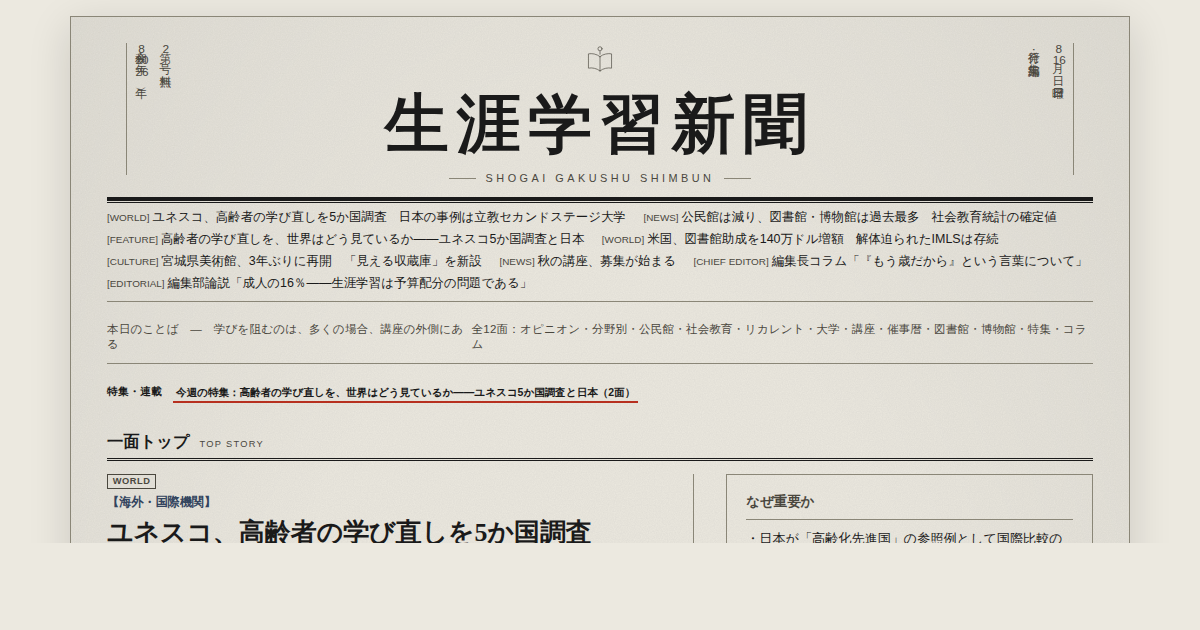
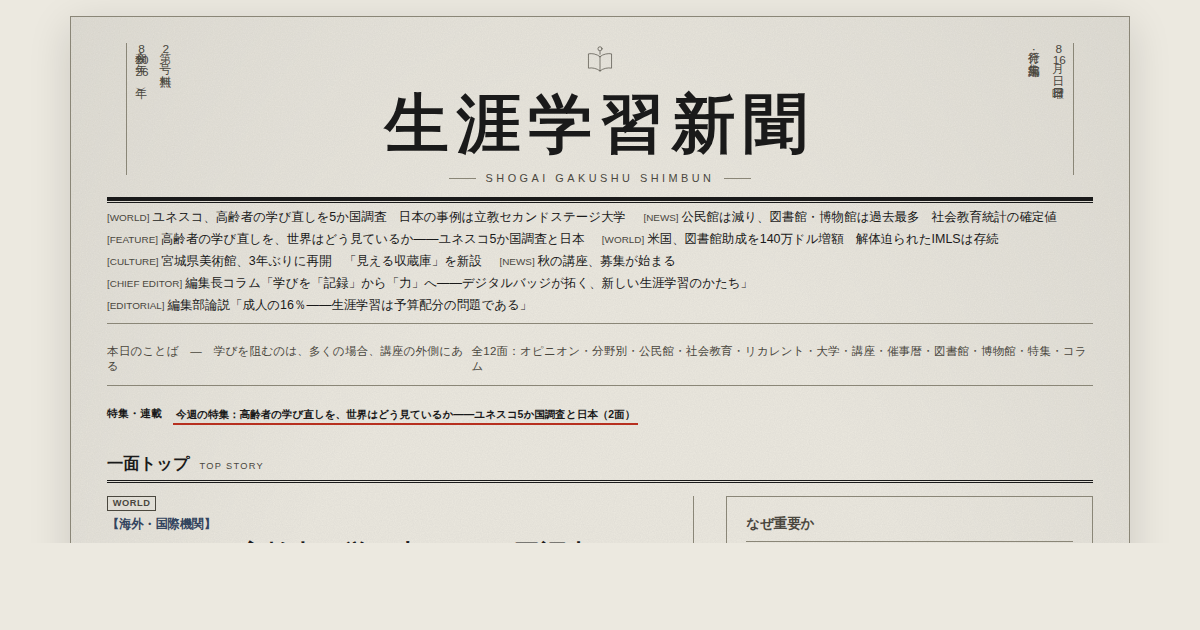
2面の編集長コラムを本人の寄稿に差し替え
AIが下書きしていた「『もう歳だから』という言葉について」を、編集長本人
による書き下ろし「学びを『記録』から『力』へ――デジタルバッジが拓く、
新しい生涯学習のかたち」に差し替えた。

紙面:
- 2面 編集長コラムを全面差し替え。長文の署名原稿のため全幅・本文2段組みに
  し、■の節見出しに罫を入れた（.op-box.full を新設）
- 署名は「編集長　山仲　元」。囲み冒頭に、筆者が日本生涯学習協議会の
  理事長であること、本稿は協議会の公式見解ではないことを明記
- 編集部論説も全幅・2段組みに揃え、節見出しを分離

追随した箇所:
- articles配列の col-chief-editor-002（本文・要点・タグ・出典・編集部注）
  ※HTML側と本文が完全一致することを検証スクリプトで確認済み
- 1面見出し帯／3面 分野別カード・新着記事一覧／11面 索引
- 10面 編集後記と12面 奥付から「AIが下書き」の記載を削除し、本人執筆と
  協議会見解ではない旨に改めた
- 3面 シニアの学び欄はコラムの代わりに立教セカンドステージ大学を配置し、
  コラムは論説・コラム欄へ移した
- index.html / feed.xml / archive.html / og:image・twitter:image の説明文
- og/2026-08-16.png を再生成

記事ダイアログの改良:
- 本文に「■」で始まる段落があれば、それを目次と節見出しとして描画する
  ようにした（該当しない記事は従来どおり段落番号の目次）

コラムのマイクロクレデンシャル論と5面のOECD「スキル・ファースト」は
論点が重なるため、関連記事として相互リンクした。

Claude-Session: https://claude.ai/code/session_017xpqQvDthEy25gPc7RGweo

Changed region(s): [[0.0925, 0.3921, 0.8942, 0.8746]]

diff --git a/issues/2026-08-16.html b/issues/2026-08-16.html
@@ -5,7 +5,7 @@
 <meta property="og:site_name" content="生涯学習新聞">
 <meta property="og:locale" content="ja_JP">
 <meta property="og:title" content="生涯学習新聞 — 2026年8月16日号（第2号）">
-<meta property="og:description" content="ユネスコ、高齢者の学び直しを5か国調査／公民館は減り、図書館・博物館は過去最多／編集長コラム「『もう歳だから』という言葉について」">
+<meta property="og:description" content="ユネスコ、高齢者の学び直しを5か国調査／公民館は減り、図書館・博物館は過去最多／編集長コラム「学びを「記録」から「力」へ——デジタルバッジが拓く、新しい生涯学習のかたち」">
 <link rel="icon" href="../icons/favicon.ico">
 <link rel="apple-touch-icon" href="../icons/apple-touch-icon.png">
 <link rel="manifest" href="../manifest.json">
@@ -18,7 +18,7 @@
 <meta property="og:image:height" content="630">
 <meta name="twitter:card" content="summary_large_image">
 <meta name="twitter:title" content="生涯学習新聞 — 2026年8月16日号（第2号）">
-<meta name="twitter:description" content="ユネスコ、高齢者の学び直しを5か国調査／公民館は減り、図書館・博物館は過去最多／編集長コラム「『もう歳だから』という言葉について」">
+<meta name="twitter:description" content="ユネスコ、高齢者の学び直しを5か国調査／公民館は減り、図書館・博物館は過去最多／編集長コラム「学びを「記録」から「力」へ——デジタルバッジが拓く、新しい生涯学習のかたち」">
 <meta name="twitter:image" content="https://djtobby.github.io/shogai-gakushu-shimbun/og/2026-08-16.png">
 <style>
   :root {
@@ -640,6 +640,24 @@
     padding: 1.2rem 1.4rem;
   }
   .op-box.feature-box { grid-column: 1 / -1; border-color: var(--ink); }
+  /* 編集長の署名原稿など、長文を全幅・段組で組むための指定 */
+  .op-box.full { grid-column: 1 / -1; }
+  .op-box.full .col-excerpt { column-count: 2; column-gap: 2.2rem; }
+  .op-box.full .col-excerpt p { orphans: 2; widows: 2; }
+  .op-box .col-note {
+    font-size: 0.72rem; line-height: 1.7; color: var(--ink-soft);
+    border-left: 2px solid var(--rule-soft); padding: 0.4em 0 0.4em 0.7em; margin: 0.9em 0 0;
+  }
+  .op-box .col-excerpt p.col-sec {
+    font-family: var(--font-mincho); font-weight: 700; font-size: 1.04rem;
+    margin: 1.5em 0 0.7em; padding-bottom: 0.25em;
+    border-bottom: 1px solid var(--rule-soft);
+    break-inside: avoid; break-after: avoid;
+  }
+  .op-box .col-excerpt p.col-sec:first-child { margin-top: 0; }
+  .op-box .col-excerpt p.col-close {
+    font-family: var(--font-mincho); font-weight: 700; font-size: 1.02rem; line-height: 1.7;
+  }
   .op-box .col-title-row { display: flex; align-items: center; margin-bottom: 0.6em; }
   .op-box .col-title { font-family: var(--font-mincho); font-weight: 700; font-size: 1.22rem; line-height: 1.5; }
   .op-box .col-subtitle { font-size: 0.85em; color: var(--ink-soft); margin-top: 0.4em; }
@@ -726,6 +744,10 @@
   .ad-inner .ad-keypoints h3, .ad-inner .ad-body h3, .ad-inner .ad-editor-note h3, .ad-inner .ad-related h3 { font-family: var(--font-mincho); font-size: 0.8rem; margin: 0 0 0.4em; }
   .ad-inner .ad-keypoints ul { margin: 0; padding-left: 1.2em; }
   .ad-inner .ad-body p { font-size: 0.9rem; line-height: 1.95; margin: 0 0 1em; }
+  .ad-inner .ad-body p.ad-sec {
+    font-family: var(--font-mincho); font-weight: 700; font-size: 0.98rem;
+    margin: 1.6em 0 0.7em; padding-bottom: 0.25em; border-bottom: 1px solid var(--rule-soft);
+  }
   .ad-inner .ad-editor-note { font-size: 0.78rem; color: var(--ink-soft); border: 1px dashed var(--rule-soft); padding: 0.7em 1em; margin: 0.8em 0; }
   .ad-inner .ad-source { font-size: 0.7rem; color: var(--ink-soft); margin: 0.8em 0; }
   .ad-inner .ad-tags { display: flex; flex-wrap: wrap; gap: 0.4em; margin: 0.8em 0; }
@@ -905,24 +927,93 @@
 
     <p class="section-heading">編集長コラム <span class="en">CHIEF EDITOR'S COLUMN</span></p>
     <div class="page-body op-row">
-      <div class="op-box">
+      <div class="op-box full">
         <div class="col-title-row">
           <span class="type-badge" data-type="CHIEF_EDITOR">CHIEF EDITOR</span>
         </div>
-        <div class="col-title">学びの周辺　第<span class="tcy">2</span>回<br>「『もう歳だから』という言葉について」</div>
-        <div class="col-byline">編集長</div>
+        <div class="col-title">学びを「記録」から「力」へ<br><span class="col-subtitle">――デジタルバッジが拓く、新しい生涯学習のかたち／編集長コラム「学びの周辺」第<span class="tcy">2</span>回</span></div>
+        <div class="col-byline">編集長　山仲　元</div>
+        <p class="col-note">本欄は編集長個人の見解であり、事実報道ではありません。筆者は一般財団法人日本生涯学習協議会の理事長を務めていますが、本稿は同協議会の公式見解を示すものではありません。</p>
         <div class="col-excerpt">
-          <p>ユネスコの報告書に、意外な障壁が並んでいました。資金が足りない、デジタルについていけない——ここまでは予想がつきます。その次に書かれていたのが、高齢者自身が「自分はもう歳をとりすぎている」と考えてしまうことでした。</p>
-          <p>この言葉は、公民館でも大学の公開講座でも、何度も聞いてきました。申込書を前にして手が止まる。誘われても、笑って辞退する。もう歳だから、と。制度の側から見れば、これは統計に現れない離脱です。定員が埋まらなかった理由としては記録されますが、なぜ埋まらなかったかは残りません。</p>
-          <p>厄介なのは、この自己認識が本人だけのものではないことです。周囲が「無理をなさらないで」と言い、募集要項が暗黙のうちに若い受講者を想定し、講師が説明の速度を変えない。そうした小さな積み重ねが、本人の中に「自分の場所ではない」という感覚を育てていきます。年齢差別という言葉は強すぎるように聞こえるかもしれませんが、報告書が応募段階での差別を並べて書いているのは、この連続性を見ているからでしょう。</p>
-          <p>では、どうすればよいのか。報告書は、高齢者自身を提供内容の設計に加えることを挙げていました。受け手として想定するのではなく、作り手として迎える。この一手が効くのは、参加のハードルが下がるからだけではありません。「自分たちのために誰かが作ったもの」ではなく「自分たちが作ったもの」になった瞬間に、もう歳だからという言葉の出番がなくなるからだと思います。</p>
-          <p>私自身、この言葉を口にしそうになることがあります。そのたびに、公民館で初めて講師役に回った方の顔を思い出すようにしています。あのとき変わったのは、その人の能力ではなく、その人の立ち位置でした。</p>
-          <p><strong>編集長より</strong>　学びをためらわせるものは、たいてい講座の外側にあります。募集の言葉づかい、会場の空気、隣に座る人の年齢。紙面でも、そこを見ていきたいと思います。</p>
-        </div>
-        <button type="button" class="read-more" data-article-id="col-chief-editor-002">続きを読む（関連記事・タグなど）</button>
-      </div>
+          <p>社会の変化が、これまでにない速さで進んでいます。</p>
+          <p>生成AIをはじめとするデジタル技術の進化、少子高齢化、働き方の多様化、雇用の流動化、地域コミュニティの変化。私たちは今、「学校を卒業した時点で学びを終える」という考え方では対応できない時代を迎えています。</p>
+          <p>一度身につけた知識や技術だけで、その後の人生を歩み続けることは難しくなりました。仕事のために新しい知識を身につけることもあれば、定年後に新しい活動を始めるために学ぶこともあります。地域で人の役に立ちたい、趣味を深めたい、誰かに教えたい、仲間とつながりたいという思いから始まる学びもあります。</p>
+          <p>生涯学習は、もはや一部の意欲的な人だけのものではありません。年齢や職業にかかわらず、誰もが変化の中で自分らしく生きるための「社会の基盤」になりつつあります。</p>
 
-      <div class="op-box">
+          <p class="col-sec">■「何を学んだか」が問われる時代</p>
+          <p>これまで、学びの成果を証明する代表的なものは、学校の卒業証書や国家資格、民間資格などでした。</p>
+          <p>もちろん、これらの価値がなくなるわけではありません。しかし、社会で必要とされる知識や技能が細分化し、変化する速度も速くなる中で、数年単位の教育課程や大きな資格だけでは、個人の学びのすべてを表しきれなくなっています。</p>
+          <p>例えば、ある人が数カ月間の講座で新しい技法を習得したとします。その人は、作品を制作できるようになっただけでなく、人に教える力や、教室を運営する力、仲間をまとめる力、オンラインで情報を発信する力を身につけているかもしれません。</p>
+          <p>ところが、従来の認定証には「○○講座修了」としか書かれていないことが少なくありません。これでは、その人が何を学び、何ができるようになったのかまでは十分に伝わりません。</p>
+          <p>今後の生涯学習に必要なのは、「受講した事実」だけではなく、「何を学び、どのような能力を身につけたのか」を社会に分かりやすく示す仕組みです。</p>
+
+          <p class="col-sec">■マイクロクレデンシャルという新しい考え方</p>
+          <p>現在、世界的に注目されているのが「マイクロクレデンシャル」です。</p>
+          <p>簡単に言えば、比較的小さな単位の学びや、その学びによって身につけた能力を正式に証明する考え方です。長期間の教育課程を一つ修了するだけでなく、必要な学びを小さな単位で積み重ね、それぞれの成果を証明していきます。</p>
+          <p>例えば、「基礎技法を習得した」「作品制作の実践力を身につけた」「指導者として必要な知識を学んだ」「教室運営について学んだ」といった成果を、それぞれ証明することができます。</p>
+          <p>小さな学びの証明を積み重ねることで、一人ひとりの学びの履歴が、その人独自のキャリアや活動の記録になっていきます。</p>
+          <p>これは、従来の大きな資格を否定するものではありません。大きな資格を支える学びを、より細かく、分かりやすく、社会に見えるようにするものです。</p>
+          <p>忙しい社会人にとっても、短期間の学びを積み重ねられる仕組みは重要です。仕事、子育て、介護などと両立しながら、自分のペースで学び続けることができるからです。</p>
+          <p>ただし、学びを細かくすれば、それだけで価値が生まれるわけではありません。何を学ぶのか、どのような基準で評価するのか、誰が証明するのか。その質と信頼性が、これまで以上に重要になります。</p>
+
+          <p class="col-sec">■紙の認定証からデジタルバッジへ</p>
+          <p>こうした学びの成果をデジタル上で証明する仕組みの一つが「デジタルバッジ」です。</p>
+          <p>デジタルバッジは、単なる記念画像ではありません。本来のデジタルバッジには、発行した団体、取得者、取得年月日、学んだ内容、取得のための条件、評価基準などの情報が記録されます。</p>
+          <p>取得者は、デジタルバッジをスマートフォンやパソコンで管理し、自分のホームページやSNS、プロフィール、電子履歴書などで提示することができます。受け取った側も、そのバッジを誰が発行し、どのような学びを証明しているのかを確認できます。</p>
+          <p>紙の認定証には、手にしたときの喜びや、額に入れて飾る価値があります。それはこれからも大切にすべき文化です。</p>
+          <p>一方で、紙の認定証は、保管場所に置かれたままになりやすく、第三者が真正性を確認することも簡単ではありません。紛失や劣化の問題もあります。</p>
+          <p>デジタルバッジであれば、学びの成果を必要なときに提示でき、遠く離れた相手とも共有できます。資格や認定が、その人の手元にある「証書」から、社会とつながるための「情報」へと変わるのです。</p>
+          <p>国際的な技術標準であるOpen Badges 3.0では、発行者や取得内容などの情報に加え、デジタル署名などを用いて、その証明が正当なものかを検証できる仕組みが整えられています。</p>
+          <p>重要なのは、認定証を紙からデジタルに置き換えることだけではありません。</p>
+          <p>本当の意味でのデジタル化とは、これまで見えにくかった学びの内容と成果を明らかにし、個人が自分の学びを持ち運び、社会の中で生かせるようにすることです。</p>
+
+          <p class="col-sec">■資格は「取得して終わり」ではない</p>
+          <p>私たちが、もう一つ見直さなければならないのは、資格や認定に対する考え方です。</p>
+          <p>資格を取得することは、学びの大切な節目です。しかし、資格を取得しただけで、自動的に優れた講師になれるわけではありません。</p>
+          <p>学んだ技術をどのように伝えるのか。受講者の気持ちにどう寄り添うのか。どのような教室やコミュニティをつくるのか。自分らしい講師像をどう築くのか。認定カリキュラムを超えて、どのような価値を生み出していくのか。</p>
+          <p>こうした実践の積み重ねによって、資格は初めて生きた力になります。</p>
+          <p>これからの認定制度には、「講座を受けたから認定する」という発想だけでなく、取得後の活動、継続学習、指導実績、作品発表、地域貢献なども含めて、学び続けていることを評価する視点が必要です。</p>
+          <p>デジタルバッジを活用すれば、最初の資格取得だけでなく、その後の研修、実践、活動実績などを段階的に記録することができます。</p>
+          <p>一つの大きな認定証だけで人を判断するのではなく、その人が歩んできた学びの道のり全体を見えるようにする。そこに、デジタルバッジの大きな可能性があります。</p>
+
+          <p class="col-sec">■AI時代だからこそ、人が教える価値が高まる</p>
+          <p>生成AIの急速な普及によって、「知識を得る」という行為そのものは、大きく変わりました。</p>
+          <p>分からないことがあれば、AIに質問することができます。文章を要約し、学習計画を作り、練習問題を作成してもらうこともできます。オンライン動画や配信講座を活用すれば、場所や時間に縛られずに学ぶこともできます。</p>
+          <p>だからといって、人が人に教える役割がなくなるわけではありません。むしろ、AIによって情報があふれる時代だからこそ、学ぶ人に寄り添い、適切な情報を選び、励まし、成長を認める人の存在が重要になります。</p>
+          <p>生涯学習の場では、知識や技術だけが受け渡されているのではありません。</p>
+          <p>先生と受講者との信頼関係、仲間との出会い、互いの作品を認め合う喜び、目標に向かって続ける力、自分にもできたという実感。こうした人間的な経験こそが、生涯学習の大きな価値です。</p>
+          <p>デジタル技術は、人間関係に代わるものではありません。人と人とのつながりを広げ、学びを続けやすくし、その成果をより多くの人に伝えるために使うものです。</p>
+
+          <p class="col-sec">■デジタル化から誰も取り残さない</p>
+          <p>生涯学習のデジタル化を進めるうえで、忘れてはならないことがあります。それは、デジタルに慣れていない人を取り残さないということです。</p>
+          <p>スマートフォンの操作に不安がある人もいます。SNSを利用していない人もいます。紙の認定証を大切に感じる人もいます。</p>
+          <p>すべてを一度にデジタルへ移行し、使えない人は仕方がないと考えるのは、生涯学習の理念に反します。</p>
+          <p>必要なのは、紙とデジタルを適切に併用すること、使い方を丁寧に説明すること、身近な場所で支援することです。デジタル化は、運営側の効率化だけを目的にするのではなく、学ぶ人の選択肢を増やすために進めなければなりません。</p>
+          <p>年齢、居住地域、身体的な条件、経済状況、デジタル機器への習熟度にかかわらず、誰もが学びに参加できる環境をつくる。それが生涯学習に関わる団体の責任です。</p>
+
+          <p class="col-sec">■学びを、社会の共通言語にする</p>
+          <p>これからの生涯学習に求められるのは、講座を提供して終わることではありません。</p>
+          <p>学びの内容を明確にすること。成果を適切に評価すること。取得した資格や能力を社会に分かりやすく伝えること。取得後も学び続け、活動できる環境をつくること。そして、学んだ人と、その力を必要とする社会をつなぐことです。</p>
+          <p>デジタルバッジは、そのための有力な手段です。しかし、バッジを発行すること自体が目的になってはいけません。</p>
+          <p>中身の伴わないバッジを大量に発行すれば、かえって認定の価値を低下させます。発行団体には、教育内容、審査基準、講師の質、取得後の支援について、これまで以上に説明責任が求められます。</p>
+          <p>誰が発行したのか。何を学んだのか。何ができるのか。どのような基準で認められたのか。</p>
+          <p>それらが明確であってこそ、デジタルバッジは信頼される「学びの証明」になります。</p>
+          <p>日本生涯学習協議会としても、認定制度のデジタル化を単なる事務手続きの変更として捉えるのではなく、学ぶ人の可能性を社会につなげるための改革として進めていかなければなりません。</p>
+          <p>認定を取得した方が、自らの学びに誇りを持てること。身につけた力を社会に示せること。講師、作家、地域の担い手として活躍できること。そして、その姿を見た次の人が「自分も学んでみたい」と思えること。</p>
+          <p>学びが次の学びを生み、人と人をつなぎ、地域や社会を豊かにしていく。その循環をつくることが、私たちの使命です。</p>
+          <p>技術は変わります。学び方も、認定の形も変わっていきます。しかし、人が成長したいと願う気持ちと、その成長を誰かが認めることの価値は変わりません。</p>
+          <p>デジタルの力を正しく活用しながら、人の温かさを失わない。</p>
+          <p>その両方を大切にすることが、これからの生涯学習に求められているのではないでしょうか。</p>
+          <p class="col-close">学びを、しまっておく証書から、人生と社会を動かす力へ。</p>
+          <p class="col-close">私たちは今、生涯学習の新しい時代の入り口に立っています。</p>
+        </div>
+        <button type="button" class="read-more" data-article-id="col-chief-editor-002">続きを読む（要点・関連記事・タグなど）</button>
+      </div>
+    </div>
+
+    <p class="section-heading">編集部論説 <span class="en">EDITORIAL</span></p>
+    <div class="page-body op-row">
+      <div class="op-box full">
         <div class="col-title-row">
           <span class="type-badge" data-type="EDITORIAL">EDITORIAL</span>
         </div>
@@ -999,7 +1090,7 @@
         <h4>シニアの学び</h4>
         <ul>
           <li><a href="#p1" onclick="jumpToArticle(event,'p1')"><span class="cc-badge">[WORLD]</span>ユネスコ、高齢者の学び直しを5か国調査</a><span class="cc-desc">障壁に資金・デジタル・年齢差別・自己認識。</span></li>
-          <li><a href="#" onclick="event.preventDefault();openArticleDialog('col-chief-editor-002')"><span class="cc-badge">[CHIEF_EDITOR]</span>「もう歳だから」という言葉について</a><span class="cc-desc">統計に現れない離脱を、編集長が考える。</span></li>
+          <li><a href="#" onclick="event.preventDefault();openArticleDialog('recurrent-003')"><span class="cc-badge">[NEWS]</span>立教セカンドステージ大学、ユネスコ報告書の事例に</a><span class="cc-desc">50歳以上を対象に「異世代共学」を掲げる課程。</span></li>
         </ul>
       </div>
       <div class="category-card">
@@ -1023,6 +1114,7 @@
       <div class="category-card">
         <h4>論説・コラム</h4>
         <ul>
+          <li><a href="#" onclick="event.preventDefault();openArticleDialog('col-chief-editor-002')"><span class="cc-badge">[CHIEF_EDITOR]</span>学びを「記録」から「力」へ</a><span class="cc-desc">デジタルバッジとマイクロクレデンシャルを編集長が論じる。</span></li>
           <li><a href="#" onclick="event.preventDefault();openArticleDialog('editorial-002')"><span class="cc-badge">[EDITORIAL]</span>成人の16％——生涯学習は予算配分の問題である</a><span class="cc-desc">ILO報告書を手がかりに編集部が分析。</span></li>
           <li><a href="#" onclick="jumpToArticle(event,'p10')"><span class="cc-badge">[OPINION]</span>コラム「学びの現在地」</a><span class="cc-desc">生成AIが独自の視点で綴る所感欄。</span></li>
         </ul>
@@ -1056,7 +1148,7 @@
       <li><time>09:15</time><span class="arr-cat">[NEWS] 講座・教室</span><a href="#" onclick="jumpToArticle(event,'p6')">大学の公開講座、後期の受付が続く</a></li>
       <li><time>09:45</time><span class="arr-cat">[WORLD] 図書館</span><a href="#" onclick="event.preventDefault();openArticleDialog('library-002')">米国、図書館助成を140万ドル増額</a></li>
       <li><time>10:00</time><span class="arr-cat">[CULTURE] 博物館</span><a href="#" onclick="event.preventDefault();openArticleDialog('culture-002')">宮城県美術館、3年ぶりに再開</a></li>
-      <li><time>10:15</time><span class="arr-cat">[CHIEF_EDITOR] コラム</span><a href="#" onclick="event.preventDefault();openArticleDialog('col-chief-editor-002')">「もう歳だから」という言葉について</a></li>
+      <li><time>10:15</time><span class="arr-cat">[CHIEF_EDITOR] コラム</span><a href="#" onclick="event.preventDefault();openArticleDialog('col-chief-editor-002')">学びを「記録」から「力」へ——デジタルバッジが拓く、新しい生涯学習のかたち</a></li>
       <li><time>10:30</time><span class="arr-cat">[EDITORIAL] 論説</span><a href="#" onclick="event.preventDefault();openArticleDialog('editorial-002')">成人の16％——生涯学習は予算配分の問題である</a></li>
       <li><time>10:45</time><span class="arr-cat">[FEATURE] 特集</span><a href="#" onclick="event.preventDefault();openArticleDialog('feature-002')">高齢者の学び直しを、世界はどう見ているか</a></li>
       <li><time>11:00</time><span class="arr-cat">[WORLD] 国際機関</span><a href="#" onclick="event.preventDefault();openArticleDialog('world-002')">ILO、体系的な訓練を受けた成人は世界で16％</a></li>
@@ -1441,7 +1533,7 @@
       <div class="editors-note">
         <div class="et-title">編集後記</div>
         <p>本号は、編集部の作業環境から府省庁・自治体・国際機関の公式サイトへ直接アクセスできない状態で制作しました。記事は、前号までに確認済みの取材メモと、検索結果に表示された各公式ページの記載に基づいています。数値の一部を「未確認」と明記したのはこのためです（5面など）。</p>
-        <p>2面の編集長コラム「『もう歳だから』という言葉について」は、生成AIが下書きしたものです。本紙は実名で発行しており、編集長コラムの文責は編集長本人にあります。掲載にあたっては、編集長ご本人の言葉への差し替えを強くおすすめします。</p>
+        <p>2面の編集長コラム「学びを『記録』から『力』へ——デジタルバッジが拓く、新しい生涯学習のかたち」は、編集長本人による書き下ろしです。筆者は一般財団法人日本生涯学習協議会の理事長を務めていますが、本稿は同協議会の公式見解ではなく、編集長個人の見解として掲載しています。</p>
         <p>数値・日付は各記事末尾の出典をご確認ください。特に講座の日程・定員・費用については、主催者の一次情報にあたっていただくようお願いします。誤りにお気づきの際は編集部までお寄せください。</p>
       </div>
     </div>
@@ -1459,7 +1551,7 @@
 
     <ul class="toc-list">
       <li><span class="toc-page">1面</span><span class="toc-title">総合</span><span class="toc-desc">見出し帯／特集・連載／一面トップ「ユネスコ、高齢者の学び直しを5か国調査」／一面サブニュース（社会教育統計、ILO報告書、米国IMLS、宮城県美術館）／秋の講座、募集が始まる</span></li>
-      <li><span class="toc-page">2面</span><span class="toc-title">オピニオン面</span><span class="toc-desc">編集長コラム「『もう歳だから』という言葉について」（全文）／編集部論説「成人の16％——生涯学習は予算配分の問題である」（全文）／今週の特集「高齢者の学び直しを、世界はどう見ているか」（全文）</span></li>
+      <li><span class="toc-page">2面</span><span class="toc-title">オピニオン面</span><span class="toc-desc">編集長コラム「学びを『記録』から『力』へ——デジタルバッジが拓く、新しい生涯学習のかたち」（全文）／編集部論説「成人の16％——生涯学習は予算配分の問題である」（全文）／今週の特集「高齢者の学び直しを、世界はどう見ているか」（全文）</span></li>
       <li><span class="toc-page">3面</span><span class="toc-title">分野別ニュース・小欄面</span><span class="toc-desc">8分野の見出し一覧／小欄・短信12欄／新着記事一覧14件</span></li>
       <li><span class="toc-page">4面</span><span class="toc-title">公民館・社会教育</span><span class="toc-desc">公民館は減り、図書館・博物館は過去最多／中教審特別部会、8月時点でも取りまとめ未公表</span></li>
       <li><span class="toc-page">5面</span><span class="toc-title">リカレント・大学</span><span class="toc-desc">立教セカンドステージ大学、ユネスコ報告書の事例に／OECD「スキル・ファースト労働市場」が問うもの</span></li>
@@ -1516,7 +1608,8 @@
         <p>本紙は、一般財団法人日本生涯学習協議会の理事長である山仲元が、個人として試作しているデジタル新聞です。実在の刊行物ではなく、また協議会の公式刊行物でもありません。本紙の内容は協議会の見解を代表するものではなく、記載された意見はすべて編集部・編集長個人のものです。</p>
         <p>各記事は公開されているプレスリリースや報道・調査資料をもとに編集部が要約・構成したもので、全文転載ではありません。詳細・一次情報は各記事末尾の出典よりご確認ください。</p>
         <p>本紙は記事を「NEWS・BREAKING・EDITORIAL・CHIEF_EDITOR・FEATURE・INTERVIEW・MARKET・MATERIAL・TECHNIQUE・CULTURE・BUSINESS・WORLD・OPINION・SHORTS」の種別に分類し、見出し脇のバッジで表示しています。事実報道と意見・分析記事は明確に区別しています。</p>
-        <p>コラム「学びの現在地」、編集長コラム、編集部論説はいずれも一次情報ではなく、編集部・編集長・生成AI（Claude）による見解です。</p>
+        <p>2面の編集長コラムは、編集長・山仲元本人による書き下ろしです。筆者は一般財団法人日本生涯学習協議会の理事長を務めていますが、同コラムは同協議会の公式見解ではなく、編集長個人の見解として掲載しています。</p>
+        <p>編集部論説と、10面のコラム「学びの現在地」は、いずれも一次情報ではなく、編集部および生成AI（Claude）による分析・所感です。</p>
       </div>
       <div class="back-box">
         <h3>本号の制作条件について</h3>
@@ -1638,30 +1731,92 @@
       image: null, imageCaption: null, featured: true, priority: 1, status: 'published',
     },
     {
-      id: 'col-chief-editor-002', slug: 'mou-toshi-dakara-toiu-kotoba-ni-tsuite', articleType: 'CHIEF_EDITOR',
-      title: '「もう歳だから」という言葉について',
-      subtitle: '編集長コラム「学びの周辺」第2回',
-      lead: 'ユネスコの報告書に、意外な障壁が並んでいました。資金でもデジタルでもなく、高齢者自身が「自分はもう歳をとりすぎている」と考えてしまうこと。統計に現れない離脱について考えます。',
-      category: 'コラム', tags: ['編集長コラム', 'シニアの学び', '年齢'],
-      author: '編集長', authorRole: '生涯学習新聞 編集長',
+      id: 'col-chief-editor-002', slug: 'manabi-wo-kiroku-kara-chikara-e-digital-badge', articleType: 'CHIEF_EDITOR',
+      title: '学びを「記録」から「力」へ',
+      subtitle: '――デジタルバッジが拓く、新しい生涯学習のかたち／編集長コラム「学びの周辺」第2回',
+      lead: '「受講した事実」だけでなく、「何を学び、どのような能力を身につけたのか」を社会に分かりやすく示す仕組みが要る。マイクロクレデンシャルとデジタルバッジが拓く、生涯学習の新しいかたちを考えます。',
+      category: 'コラム', tags: ['編集長コラム', 'デジタルバッジ', 'マイクロクレデンシャル', '認定制度', '生涯学習'],
+      author: '山仲　元', authorRole: '生涯学習新聞 編集長',
       publishedAt: '2026-08-16T10:15:00+09:00', updatedAt: '2026-08-16T10:15:00+09:00',
-      sourceName: '生涯学習新聞編集部（編集長本人の所感）', sourceUrl: null, sourcePublishedAt: null,
+      sourceName: '生涯学習新聞編集部（編集長本人の寄稿）', sourceUrl: null, sourcePublishedAt: null,
       factOrOpinion: 'opinion',
-      editorNote: '本欄は編集長個人の意見であり、事実報道ではありません。また、一般財団法人日本生涯学習協議会の見解を示すものでもありません。なお本稿は生成AIが下書きしたものであり、掲載にあたっては編集長ご本人の言葉への差し替えを推奨します。',
+      editorNote: '本欄は編集長個人の見解であり、事実報道ではありません。筆者は一般財団法人日本生涯学習協議会の理事長を務めていますが、本稿は同協議会の公式見解を示すものではありません。本稿は編集長本人による書き下ろしです。',
       keyPoints: [
-        '「もう歳だから」という離脱は、定員が埋まらなかった理由としては記録されるが、なぜ埋まらなかったかは残らない',
-        'この自己認識は本人だけのものではなく、周囲の言葉づかいや募集要項の想定が育てている面がある',
-        '高齢者自身を提供内容の設計に加えると、「自分たちが作ったもの」になり、この言葉の出番がなくなる',
+        '数年単位の教育課程や大きな資格だけでは、個人の学びのすべてを表しきれなくなっている',
+        'マイクロクレデンシャルは、小さな単位の学びと身につけた能力を証明する考え方。ただし細かくすれば価値が生まれるわけではなく、質と信頼性が要になる',
+        'デジタルバッジは発行団体・取得者・学習内容・評価基準を記録し、Open Badges 3.0はデジタル署名等で真正性を検証できる',
+        '資格は取得して終わりではない。取得後の活動・継続学習・指導実績まで含めて評価する視点が要る',
+        'AIで情報があふれる時代だからこそ、寄り添い、励まし、成長を認める人の存在が重要になる',
+        'デジタル化は運営側の効率化ではなく、学ぶ人の選択肢を増やすために進める。誰も取り残さない',
       ],
       body: [
-        'ユネスコの報告書に、意外な障壁が並んでいました。資金が足りない、デジタルについていけない——ここまでは予想がつきます。その次に書かれていたのが、高齢者自身が「自分はもう歳をとりすぎている」と考えてしまうことでした。',
-        'この言葉は、公民館でも大学の公開講座でも、何度も聞いてきました。申込書を前にして手が止まる。誘われても、笑って辞退する。もう歳だから、と。制度の側から見れば、これは統計に現れない離脱です。定員が埋まらなかった理由としては記録されますが、なぜ埋まらなかったかは残りません。',
-        '厄介なのは、この自己認識が本人だけのものではないことです。周囲が「無理をなさらないで」と言い、募集要項が暗黙のうちに若い受講者を想定し、講師が説明の速度を変えない。そうした小さな積み重ねが、本人の中に「自分の場所ではない」という感覚を育てていきます。年齢差別という言葉は強すぎるように聞こえるかもしれませんが、報告書が応募段階での差別を並べて書いているのは、この連続性を見ているからでしょう。',
-        'では、どうすればよいのか。報告書は、高齢者自身を提供内容の設計に加えることを挙げていました。受け手として想定するのではなく、作り手として迎える。この一手が効くのは、参加のハードルが下がるからだけではありません。「自分たちのために誰かが作ったもの」ではなく「自分たちが作ったもの」になった瞬間に、もう歳だからという言葉の出番がなくなるからだと思います。',
-        '私自身、この言葉を口にしそうになることがあります。そのたびに、公民館で初めて講師役に回った方の顔を思い出すようにしています。あのとき変わったのは、その人の能力ではなく、その人の立ち位置でした。',
-        '編集長より　学びをためらわせるものは、たいてい講座の外側にあります。募集の言葉づかい、会場の空気、隣に座る人の年齢。紙面でも、そこを見ていきたいと思います。',
+        '社会の変化が、これまでにない速さで進んでいます。',
+        '生成AIをはじめとするデジタル技術の進化、少子高齢化、働き方の多様化、雇用の流動化、地域コミュニティの変化。私たちは今、「学校を卒業した時点で学びを終える」という考え方では対応できない時代を迎えています。',
+        '一度身につけた知識や技術だけで、その後の人生を歩み続けることは難しくなりました。仕事のために新しい知識を身につけることもあれば、定年後に新しい活動を始めるために学ぶこともあります。地域で人の役に立ちたい、趣味を深めたい、誰かに教えたい、仲間とつながりたいという思いから始まる学びもあります。',
+        '生涯学習は、もはや一部の意欲的な人だけのものではありません。年齢や職業にかかわらず、誰もが変化の中で自分らしく生きるための「社会の基盤」になりつつあります。',
+        '■「何を学んだか」が問われる時代',
+        'これまで、学びの成果を証明する代表的なものは、学校の卒業証書や国家資格、民間資格などでした。',
+        'もちろん、これらの価値がなくなるわけではありません。しかし、社会で必要とされる知識や技能が細分化し、変化する速度も速くなる中で、数年単位の教育課程や大きな資格だけでは、個人の学びのすべてを表しきれなくなっています。',
+        '例えば、ある人が数カ月間の講座で新しい技法を習得したとします。その人は、作品を制作できるようになっただけでなく、人に教える力や、教室を運営する力、仲間をまとめる力、オンラインで情報を発信する力を身につけているかもしれません。',
+        'ところが、従来の認定証には「○○講座修了」としか書かれていないことが少なくありません。これでは、その人が何を学び、何ができるようになったのかまでは十分に伝わりません。',
+        '今後の生涯学習に必要なのは、「受講した事実」だけではなく、「何を学び、どのような能力を身につけたのか」を社会に分かりやすく示す仕組みです。',
+        '■マイクロクレデンシャルという新しい考え方',
+        '現在、世界的に注目されているのが「マイクロクレデンシャル」です。',
+        '簡単に言えば、比較的小さな単位の学びや、その学びによって身につけた能力を正式に証明する考え方です。長期間の教育課程を一つ修了するだけでなく、必要な学びを小さな単位で積み重ね、それぞれの成果を証明していきます。',
+        '例えば、「基礎技法を習得した」「作品制作の実践力を身につけた」「指導者として必要な知識を学んだ」「教室運営について学んだ」といった成果を、それぞれ証明することができます。',
+        '小さな学びの証明を積み重ねることで、一人ひとりの学びの履歴が、その人独自のキャリアや活動の記録になっていきます。',
+        'これは、従来の大きな資格を否定するものではありません。大きな資格を支える学びを、より細かく、分かりやすく、社会に見えるようにするものです。',
+        '忙しい社会人にとっても、短期間の学びを積み重ねられる仕組みは重要です。仕事、子育て、介護などと両立しながら、自分のペースで学び続けることができるからです。',
+        'ただし、学びを細かくすれば、それだけで価値が生まれるわけではありません。何を学ぶのか、どのような基準で評価するのか、誰が証明するのか。その質と信頼性が、これまで以上に重要になります。',
+        '■紙の認定証からデジタルバッジへ',
+        'こうした学びの成果をデジタル上で証明する仕組みの一つが「デジタルバッジ」です。',
+        'デジタルバッジは、単なる記念画像ではありません。本来のデジタルバッジには、発行した団体、取得者、取得年月日、学んだ内容、取得のための条件、評価基準などの情報が記録されます。',
+        '取得者は、デジタルバッジをスマートフォンやパソコンで管理し、自分のホームページやSNS、プロフィール、電子履歴書などで提示することができます。受け取った側も、そのバッジを誰が発行し、どのような学びを証明しているのかを確認できます。',
+        '紙の認定証には、手にしたときの喜びや、額に入れて飾る価値があります。それはこれからも大切にすべき文化です。',
+        '一方で、紙の認定証は、保管場所に置かれたままになりやすく、第三者が真正性を確認することも簡単ではありません。紛失や劣化の問題もあります。',
+        'デジタルバッジであれば、学びの成果を必要なときに提示でき、遠く離れた相手とも共有できます。資格や認定が、その人の手元にある「証書」から、社会とつながるための「情報」へと変わるのです。',
+        '国際的な技術標準であるOpen Badges 3.0では、発行者や取得内容などの情報に加え、デジタル署名などを用いて、その証明が正当なものかを検証できる仕組みが整えられています。',
+        '重要なのは、認定証を紙からデジタルに置き換えることだけではありません。',
+        '本当の意味でのデジタル化とは、これまで見えにくかった学びの内容と成果を明らかにし、個人が自分の学びを持ち運び、社会の中で生かせるようにすることです。',
+        '■資格は「取得して終わり」ではない',
+        '私たちが、もう一つ見直さなければならないのは、資格や認定に対する考え方です。',
+        '資格を取得することは、学びの大切な節目です。しかし、資格を取得しただけで、自動的に優れた講師になれるわけではありません。',
+        '学んだ技術をどのように伝えるのか。受講者の気持ちにどう寄り添うのか。どのような教室やコミュニティをつくるのか。自分らしい講師像をどう築くのか。認定カリキュラムを超えて、どのような価値を生み出していくのか。',
+        'こうした実践の積み重ねによって、資格は初めて生きた力になります。',
+        'これからの認定制度には、「講座を受けたから認定する」という発想だけでなく、取得後の活動、継続学習、指導実績、作品発表、地域貢献なども含めて、学び続けていることを評価する視点が必要です。',
+        'デジタルバッジを活用すれば、最初の資格取得だけでなく、その後の研修、実践、活動実績などを段階的に記録することができます。',
+        '一つの大きな認定証だけで人を判断するのではなく、その人が歩んできた学びの道のり全体を見えるようにする。そこに、デジタルバッジの大きな可能性があります。',
+        '■AI時代だからこそ、人が教える価値が高まる',
+        '生成AIの急速な普及によって、「知識を得る」という行為そのものは、大きく変わりました。',
+        '分からないことがあれば、AIに質問することができます。文章を要約し、学習計画を作り、練習問題を作成してもらうこともできます。オンライン動画や配信講座を活用すれば、場所や時間に縛られずに学ぶこともできます。',
+        'だからといって、人が人に教える役割がなくなるわけではありません。むしろ、AIによって情報があふれる時代だからこそ、学ぶ人に寄り添い、適切な情報を選び、励まし、成長を認める人の存在が重要になります。',
+        '生涯学習の場では、知識や技術だけが受け渡されているのではありません。',
+        '先生と受講者との信頼関係、仲間との出会い、互いの作品を認め合う喜び、目標に向かって続ける力、自分にもできたという実感。こうした人間的な経験こそが、生涯学習の大きな価値です。',
+        'デジタル技術は、人間関係に代わるものではありません。人と人とのつながりを広げ、学びを続けやすくし、その成果をより多くの人に伝えるために使うものです。',
+        '■デジタル化から誰も取り残さない',
+        '生涯学習のデジタル化を進めるうえで、忘れてはならないことがあります。それは、デジタルに慣れていない人を取り残さないということです。',
+        'スマートフォンの操作に不安がある人もいます。SNSを利用していない人もいます。紙の認定証を大切に感じる人もいます。',
+        'すべてを一度にデジタルへ移行し、使えない人は仕方がないと考えるのは、生涯学習の理念に反します。',
+        '必要なのは、紙とデジタルを適切に併用すること、使い方を丁寧に説明すること、身近な場所で支援することです。デジタル化は、運営側の効率化だけを目的にするのではなく、学ぶ人の選択肢を増やすために進めなければなりません。',
+        '年齢、居住地域、身体的な条件、経済状況、デジタル機器への習熟度にかかわらず、誰もが学びに参加できる環境をつくる。それが生涯学習に関わる団体の責任です。',
+        '■学びを、社会の共通言語にする',
+        'これからの生涯学習に求められるのは、講座を提供して終わることではありません。',
+        '学びの内容を明確にすること。成果を適切に評価すること。取得した資格や能力を社会に分かりやすく伝えること。取得後も学び続け、活動できる環境をつくること。そして、学んだ人と、その力を必要とする社会をつなぐことです。',
+        'デジタルバッジは、そのための有力な手段です。しかし、バッジを発行すること自体が目的になってはいけません。',
+        '中身の伴わないバッジを大量に発行すれば、かえって認定の価値を低下させます。発行団体には、教育内容、審査基準、講師の質、取得後の支援について、これまで以上に説明責任が求められます。',
+        '誰が発行したのか。何を学んだのか。何ができるのか。どのような基準で認められたのか。',
+        'それらが明確であってこそ、デジタルバッジは信頼される「学びの証明」になります。',
+        '日本生涯学習協議会としても、認定制度のデジタル化を単なる事務手続きの変更として捉えるのではなく、学ぶ人の可能性を社会につなげるための改革として進めていかなければなりません。',
+        '認定を取得した方が、自らの学びに誇りを持てること。身につけた力を社会に示せること。講師、作家、地域の担い手として活躍できること。そして、その姿を見た次の人が「自分も学んでみたい」と思えること。',
+        '学びが次の学びを生み、人と人をつなぎ、地域や社会を豊かにしていく。その循環をつくることが、私たちの使命です。',
+        '技術は変わります。学び方も、認定の形も変わっていきます。しかし、人が成長したいと願う気持ちと、その成長を誰かが認めることの価値は変わりません。',
+        'デジタルの力を正しく活用しながら、人の温かさを失わない。',
+        'その両方を大切にすることが、これからの生涯学習に求められているのではないでしょうか。',
+        '学びを、しまっておく証書から、人生と社会を動かす力へ。',
+        '私たちは今、生涯学習の新しい時代の入り口に立っています。',
       ],
       relatedArticles: [
+        { title: 'OECD「スキル・ファースト労働市場」が問うもの', url: 'recurrent-004' },
         { title: 'ユネスコ、高齢者の学び直しを5か国調査', url: 'front-lead-unesco-older-adults' },
         { title: '学びの障壁は、講座の外側にある（特集）', url: '#p10' },
       ],
@@ -2013,7 +2168,7 @@
       { type: 'WORLD', text: '米国、図書館助成を140万ドル増額　解体迫られたIMLSは存続', href: '#p8' },
       { type: 'CULTURE', text: '宮城県美術館、3年ぶりに再開　「見える収蔵庫」を新設', href: '#p9' },
       { type: 'NEWS', text: '秋の講座、募集が始まる', href: '#sn-autumn' },
-      { type: 'CHIEF_EDITOR', text: '編集長コラム「『もう歳だから』という言葉について」', href: 'col-chief-editor-002' },
+      { type: 'CHIEF_EDITOR', text: '編集長コラム「学びを「記録」から「力」へ——デジタルバッジが拓く、新しい生涯学習のかたち」', href: 'col-chief-editor-002' },
       { type: 'EDITORIAL', text: '編集部論説「成人の16％——生涯学習は予算配分の問題である」', href: 'editorial-002' },
     ];
     el.innerHTML = items.map((it) =>
@@ -2076,9 +2231,14 @@
     if (!a || !dialog || !inner) return;
     const banner = bannerFor(a.articleType);
     const factLabel = a.factOrOpinion === 'opinion' ? '意見・分析記事' : '事実記事';
-    const toc = a.body && a.body.length > 2
-      ? '<div class="ad-toc"><strong>目次：</strong>' + a.body.map((_, i) => '<a href="#ad-body-' + i + '">段落' + (i + 1) + '</a>').join('　') + '</div>'
-      : '';
+    /* 本文に「■」で始まる見出し段落があれば、それを目次に使う。
+       なければ従来どおり段落番号を並べる。 */
+    const secs = (a.body || []).map((p, i) => [p, i]).filter(([p]) => /^■/.test(p));
+    const toc = secs.length >= 2
+      ? '<div class="ad-toc"><strong>目次：</strong>' + secs.map(([p, i]) => '<a href="#ad-body-' + i + '">' + escapeHtml(p.replace(/^■\s*/, '')) + '</a>').join('　') + '</div>'
+      : (a.body && a.body.length > 2
+        ? '<div class="ad-toc"><strong>目次：</strong>' + a.body.map((_, i) => '<a href="#ad-body-' + i + '">段落' + (i + 1) + '</a>').join('　') + '</div>'
+        : '');
     inner.innerHTML =
       '<button type="button" class="ad-close" aria-label="閉じる" onclick="document.getElementById(\'article-dialog\').close()">×</button>' +
       '<div class="ad-badges"><span class="type-badge" data-type="' + a.articleType + '">' + ARTICLE_TYPE_LABELS[a.articleType] + '</span>' +
@@ -2091,7 +2251,8 @@
       '<span>公開：' + fmtDate(a.publishedAt) + '</span><span>更新：' + fmtDate(a.updatedAt) + '</span></div>' +
       toc +
       (a.keyPoints && a.keyPoints.length ? '<div class="ad-keypoints"><h3>要点</h3><ul>' + a.keyPoints.map((k) => '<li>' + escapeHtml(k) + '</li>').join('') + '</ul></div>' : '') +
-      '<div class="ad-body">' + (a.body || []).map((p, i) => '<p id="ad-body-' + i + '">' + escapeHtml(p) + '</p>').join('') + '</div>' +
+      '<div class="ad-body">' + (a.body || []).map((p, i) =>
+        '<p id="ad-body-' + i + '"' + (/^■/.test(p) ? ' class="ad-sec"' : '') + '>' + escapeHtml(p) + '</p>').join('') + '</div>' +
       (a.editorNote ? '<div class="ad-editor-note"><h3>編集部注</h3>' + a.editorNote + '</div>' : '') +
       '<div class="ad-source">出典：' + (a.sourceUrl ? '<a href="' + a.sourceUrl + '" target="_blank" rel="noopener">' + escapeHtml(a.sourceName || a.sourceUrl) + '</a>' : escapeHtml(a.sourceName || '本紙独自（一次情報なし）')) +
       '　／　発表日：' + (a.sourcePublishedAt ? escapeHtml(a.sourcePublishedAt) : '不明') + '　／　情報取得日：2026-08-16</div>' +

diff --git a/archive.html b/archive.html
@@ -112,7 +112,7 @@
 </div>
 
 <script>
-  const articles = [{"issueDate":"2026-08-05","issueLabel":"創刊第1号","id":"front-lead-shakaikyoiku","articleType":"NEWS","title":"社会教育の在り方、中教審の審議が大詰めへ","subtitle":"特別部会が意見整理を公表、社会教育士の養成も論点に","lead":"中央教育審議会生涯学習分科会の下に置かれた「社会教育の在り方に関する特別部会」の審議が大詰めを迎えている。文部科学省は令和8年5月22日、同部会の「審議事項2に関する意見の整理」を公表した。","category":"総合","tags":["政策","中央教育審議会","社会教育"],"publishedAt":"2026-08-05T07:00:00+09:00"},{"issueDate":"2026-08-05","issueLabel":"創刊第1号","id":"col-chief-editor-001","articleType":"CHIEF_EDITOR","title":"創刊にあたって——学びは誰のものか","subtitle":"編集長コラム「学びの周辺」第1回","lead":"本日、生涯学習新聞を創刊します。制度が整うほどに、学びは「提供されるもの」の顔をし始める——その循環をどう取り戻すかを考えます。","category":"コラム","tags":["編集長コラム","創刊","生涯学習"],"publishedAt":"2026-08-05T10:00:00+09:00"},{"issueDate":"2026-08-05","issueLabel":"創刊第1号","id":"editorial-001","articleType":"EDITORIAL","title":"社会教育士という称号は、何を変えるのか","subtitle":"編集部はこう見る","lead":"中教審の特別部会と並行して、社会教育主事・社会教育士の養成に関するワーキング・グループの審議が続いている。2020年に創設された称号は、地域に何をもたらしうるのか。","category":"論説","tags":["論説","社会教育士","担い手"],"publishedAt":"2026-08-05T10:15:00+09:00"},{"issueDate":"2026-08-05","issueLabel":"創刊第1号","id":"feature-001","articleType":"FEATURE","title":"図書館は「読む」だけの場所ではなくなる——文科省報告書が描く次の図書館像","subtitle":"今週の特集","lead":"文部科学省が令和8年3月17日に公表した「図書館が拓く未来の学びと地域社会（報告書）」は、公共図書館に「読む」×「集う」×「学ぶ」の掛け算による地域共創を求めた。","category":"特集","tags":["特集","図書館","地域共創"],"publishedAt":"2026-08-05T10:30:00+09:00"},{"issueDate":"2026-08-05","issueLabel":"創刊第1号","id":"policy-001","articleType":"MARKET","title":"社会教育士、養成のワーキング・グループが審議継続","subtitle":null,"lead":"「社会教育主事・社会教育士養成等の改善・充実に関するワーキング・グループ」は令和8年7月3日に第7回の議事録が公表された。2020年創設の称号は地域に定着するか。","category":"公民館・社会教育","tags":["社会教育士","担い手","制度"],"publishedAt":"2026-08-05T10:45:00+09:00"},{"issueDate":"2026-08-05","issueLabel":"創刊第1号","id":"recurrent-001","articleType":"BUSINESS","title":"「リカレント教育エコシステム構築支援事業」とは何か","subtitle":null,"lead":"2025年7月18日、令和7年度から始動する「リカレント教育エコシステム構築支援事業」が発表された。大学ならではの「深い学び」を通じたキャリアアップ支援の枠組みである。","category":"リカレント・大学","tags":["リカレント教育","大学","政策"],"publishedAt":"2026-08-05T08:30:00+09:00"},{"issueDate":"2026-08-05","issueLabel":"創刊第1号","id":"recurrent-002","articleType":"MARKET","title":"通信制大学の在学者、約8割が社会人","subtitle":null,"lead":"通信制大学の在学者のうち、およそ80％を社会人が占めるとされる。初年度納付金は平均20万円台とされ、費用面のハードルの低さが働きながら学ぶ層の受け皿になっている。","category":"リカレント・大学","tags":["リカレント教育","通信制大学","社会人"],"publishedAt":"2026-08-05T08:00:00+09:00"},{"issueDate":"2026-08-05","issueLabel":"創刊第1号","id":"culture-001","articleType":"CULTURE","title":"博物館という装置は、何を引き受けてきたか","subtitle":null,"lead":"「望ましい基準」の全部改正でデジタルアーカイブの作成が努力義務として書き込まれた。保存と公開という博物館の二面性を、あらためて考える。","category":"博物館・文化","tags":["博物館","デジタルアーカイブ","文化"],"publishedAt":"2026-08-05T11:00:00+09:00"},{"issueDate":"2026-08-16","issueLabel":"第2号","id":"front-lead-unesco-older-adults","articleType":"WORLD","title":"ユネスコ、高齢者の学び直しを5か国調査","subtitle":"日本の事例は立教セカンドステージ大学　障壁に資金・デジタル・年齢差別","lead":"ユネスコ生涯学習研究所（UIL）が、高齢者向けリスキリング・アップスキリング事業の実施条件を比較した調査報告書を公表した。対象はコロンビア、日本、シンガポール、スウェーデン、米国の5か国である。","category":"総合","tags":["海外","ユネスコ","シニアの学び","リスキリング"],"publishedAt":"2026-08-16T07:00:00+09:00"},{"issueDate":"2026-08-16","issueLabel":"第2号","id":"col-chief-editor-002","articleType":"CHIEF_EDITOR","title":"「もう歳だから」という言葉について","subtitle":"編集長コラム「学びの周辺」第2回","lead":"ユネスコの報告書に、意外な障壁が並んでいました。資金でもデジタルでもなく、高齢者自身が「自分はもう歳をとりすぎている」と考えてしまうこと。統計に現れない離脱について考えます。","category":"コラム","tags":["編集長コラム","シニアの学び","年齢"],"publishedAt":"2026-08-16T10:15:00+09:00"},{"issueDate":"2026-08-16","issueLabel":"第2号","id":"editorial-002","articleType":"EDITORIAL","title":"成人の16％——生涯学習は予算配分の問題である","subtitle":"編集部はこう見る","lead":"ILOが2026年5月5日に公表した旗艦報告書は、世界の15〜64歳のうち体系的な訓練を受けた人は16％にとどまるとした。この数字を、意欲の不足として読むことはできない。","category":"論説","tags":["論説","ILO","社会教育費","予算"],"publishedAt":"2026-08-16T10:30:00+09:00"},{"issueDate":"2026-08-16","issueLabel":"第2号","id":"feature-002","articleType":"FEATURE","title":"高齢者の学び直しを、世界はどう見ているか——ユネスコ5か国調査と日本","subtitle":"今週の特集","lead":"ユネスコ生涯学習研究所の調査報告書が、高齢者向けリスキリング・アップスキリング事業を5か国で比較した。担い手の顔ぶれは国によってまるで違う。","category":"特集","tags":["特集","ユネスコ","シニアの学び","国際比較"],"publishedAt":"2026-08-16T10:45:00+09:00"},{"issueDate":"2026-08-16","issueLabel":"第2号","id":"stats-002","articleType":"NEWS","title":"公民館は減り、図書館・博物館は過去最多","subtitle":"令和6年度社会教育統計の確定値","lead":"文部科学省が令和8年3月27日に公表した令和6年度社会教育統計の確定値では、施設種別で明暗が分かれた。公民館は施設数も指導系職員も減少し、図書館・博物館は過去最多となった。","category":"公民館・社会教育","tags":["統計","社会教育調査","公民館","図書館","博物館"],"publishedAt":"2026-08-16T07:30:00+09:00"},{"issueDate":"2026-08-16","issueLabel":"第2号","id":"policy-002","articleType":"NEWS","title":"中教審特別部会、8月時点でも取りまとめ未公表","subtitle":null,"lead":"「社会教育の在り方に関する特別部会」について、本紙が確認した範囲では、8月中旬の時点でも最終的な取りまとめは公表されていない。","category":"政策・行政","tags":["政策","中央教育審議会","社会教育"],"publishedAt":"2026-08-16T08:00:00+09:00"},{"issueDate":"2026-08-16","issueLabel":"第2号","id":"recurrent-003","articleType":"NEWS","title":"立教セカンドステージ大学、ユネスコ報告書の事例に","subtitle":null,"lead":"ユネスコ生涯学習研究所の高齢者リスキリング調査で、日本の事例として取り上げられたのは立教大学の「立教セカンドステージ大学」だった。2008年開設、50歳以上が対象の課程である。","category":"リカレント・大学","tags":["リカレント教育","大学","シニアの学び","ユネスコ"],"publishedAt":"2026-08-16T08:30:00+09:00"},{"issueDate":"2026-08-16","issueLabel":"第2号","id":"recurrent-004","articleType":"MARKET","title":"OECD「スキル・ファースト労働市場」が問うもの","subtitle":null,"lead":"OECDが2026年6月18日に公表した報告書は、学歴や資格ではなく実際の技能を軸に採用・人材管理・能力開発を組み替えることを主張する。学び直しの成果を誰がどう認めるのかが論点になる。","category":"リカレント・大学","tags":["OECD","リスキリング","マイクロクレデンシャル","採用"],"publishedAt":"2026-08-16T08:45:00+09:00"},{"issueDate":"2026-08-16","issueLabel":"第2号","id":"world-002","articleType":"WORLD","title":"ILO、体系的な訓練を受けた成人は世界で16％","subtitle":null,"lead":"国際労働機関（ILO）が2026年5月5日、旗艦報告書の2026年版を生涯学習をテーマに公表した。訓練機会は正規雇用に強く偏っている。","category":"海外・国際機関","tags":["海外","ILO","成人学習","統計"],"publishedAt":"2026-08-16T11:00:00+09:00"},{"issueDate":"2026-08-16","issueLabel":"第2号","id":"library-002","articleType":"WORLD","title":"米国、図書館助成を140万ドル増額　解体迫られたIMLSは存続","subtitle":null,"lead":"2026会計年度の歳出法が2026年2月3日に成立し、LSTA関連予算は前年から140万ドル増の2億1,250万ドルとなった。一方2027年度の予算教書は成人教育をゼロ要求としている。","category":"図書館","tags":["海外","米国","図書館","財源","成人教育"],"publishedAt":"2026-08-16T09:45:00+09:00"},{"issueDate":"2026-08-16","issueLabel":"第2号","id":"culture-002","articleType":"CULTURE","title":"宮城県美術館、3年ぶりに再開　「見える収蔵庫」を新設","subtitle":null,"lead":"2026年6月20日にリニューアルオープン。約3年の休館中に「見える収蔵庫」「キッズスタジオ」が新設された。開館記念展は8月23日まで。","category":"博物館・文化","tags":["博物館","美術館","リニューアル","収蔵"],"publishedAt":"2026-08-16T10:00:00+09:00"}];
+  const articles = [{"issueDate":"2026-08-05","issueLabel":"創刊第1号","id":"front-lead-shakaikyoiku","articleType":"NEWS","title":"社会教育の在り方、中教審の審議が大詰めへ","subtitle":"特別部会が意見整理を公表、社会教育士の養成も論点に","lead":"中央教育審議会生涯学習分科会の下に置かれた「社会教育の在り方に関する特別部会」の審議が大詰めを迎えている。文部科学省は令和8年5月22日、同部会の「審議事項2に関する意見の整理」を公表した。","category":"総合","tags":["政策","中央教育審議会","社会教育"],"publishedAt":"2026-08-05T07:00:00+09:00"},{"issueDate":"2026-08-05","issueLabel":"創刊第1号","id":"col-chief-editor-001","articleType":"CHIEF_EDITOR","title":"創刊にあたって——学びは誰のものか","subtitle":"編集長コラム「学びの周辺」第1回","lead":"本日、生涯学習新聞を創刊します。制度が整うほどに、学びは「提供されるもの」の顔をし始める——その循環をどう取り戻すかを考えます。","category":"コラム","tags":["編集長コラム","創刊","生涯学習"],"publishedAt":"2026-08-05T10:00:00+09:00"},{"issueDate":"2026-08-05","issueLabel":"創刊第1号","id":"editorial-001","articleType":"EDITORIAL","title":"社会教育士という称号は、何を変えるのか","subtitle":"編集部はこう見る","lead":"中教審の特別部会と並行して、社会教育主事・社会教育士の養成に関するワーキング・グループの審議が続いている。2020年に創設された称号は、地域に何をもたらしうるのか。","category":"論説","tags":["論説","社会教育士","担い手"],"publishedAt":"2026-08-05T10:15:00+09:00"},{"issueDate":"2026-08-05","issueLabel":"創刊第1号","id":"feature-001","articleType":"FEATURE","title":"図書館は「読む」だけの場所ではなくなる——文科省報告書が描く次の図書館像","subtitle":"今週の特集","lead":"文部科学省が令和8年3月17日に公表した「図書館が拓く未来の学びと地域社会（報告書）」は、公共図書館に「読む」×「集う」×「学ぶ」の掛け算による地域共創を求めた。","category":"特集","tags":["特集","図書館","地域共創"],"publishedAt":"2026-08-05T10:30:00+09:00"},{"issueDate":"2026-08-05","issueLabel":"創刊第1号","id":"policy-001","articleType":"MARKET","title":"社会教育士、養成のワーキング・グループが審議継続","subtitle":null,"lead":"「社会教育主事・社会教育士養成等の改善・充実に関するワーキング・グループ」は令和8年7月3日に第7回の議事録が公表された。2020年創設の称号は地域に定着するか。","category":"公民館・社会教育","tags":["社会教育士","担い手","制度"],"publishedAt":"2026-08-05T10:45:00+09:00"},{"issueDate":"2026-08-05","issueLabel":"創刊第1号","id":"recurrent-001","articleType":"BUSINESS","title":"「リカレント教育エコシステム構築支援事業」とは何か","subtitle":null,"lead":"2025年7月18日、令和7年度から始動する「リカレント教育エコシステム構築支援事業」が発表された。大学ならではの「深い学び」を通じたキャリアアップ支援の枠組みである。","category":"リカレント・大学","tags":["リカレント教育","大学","政策"],"publishedAt":"2026-08-05T08:30:00+09:00"},{"issueDate":"2026-08-05","issueLabel":"創刊第1号","id":"recurrent-002","articleType":"MARKET","title":"通信制大学の在学者、約8割が社会人","subtitle":null,"lead":"通信制大学の在学者のうち、およそ80％を社会人が占めるとされる。初年度納付金は平均20万円台とされ、費用面のハードルの低さが働きながら学ぶ層の受け皿になっている。","category":"リカレント・大学","tags":["リカレント教育","通信制大学","社会人"],"publishedAt":"2026-08-05T08:00:00+09:00"},{"issueDate":"2026-08-05","issueLabel":"創刊第1号","id":"culture-001","articleType":"CULTURE","title":"博物館という装置は、何を引き受けてきたか","subtitle":null,"lead":"「望ましい基準」の全部改正でデジタルアーカイブの作成が努力義務として書き込まれた。保存と公開という博物館の二面性を、あらためて考える。","category":"博物館・文化","tags":["博物館","デジタルアーカイブ","文化"],"publishedAt":"2026-08-05T11:00:00+09:00"},{"issueDate":"2026-08-16","issueLabel":"第2号","id":"front-lead-unesco-older-adults","articleType":"WORLD","title":"ユネスコ、高齢者の学び直しを5か国調査","subtitle":"日本の事例は立教セカンドステージ大学　障壁に資金・デジタル・年齢差別","lead":"ユネスコ生涯学習研究所（UIL）が、高齢者向けリスキリング・アップスキリング事業の実施条件を比較した調査報告書を公表した。対象はコロンビア、日本、シンガポール、スウェーデン、米国の5か国である。","category":"総合","tags":["海外","ユネスコ","シニアの学び","リスキリング"],"publishedAt":"2026-08-16T07:00:00+09:00"},{"issueDate":"2026-08-16","issueLabel":"第2号","id":"col-chief-editor-002","articleType":"CHIEF_EDITOR","title":"学びを「記録」から「力」へ","subtitle":"――デジタルバッジが拓く、新しい生涯学習のかたち／編集長コラム「学びの周辺」第2回","lead":"「受講した事実」だけでなく、「何を学び、どのような能力を身につけたのか」を社会に分かりやすく示す仕組みが要る。マイクロクレデンシャルとデジタルバッジが拓く、生涯学習の新しいかたちを考えます。","category":"コラム","tags":["編集長コラム","デジタルバッジ","マイクロクレデンシャル","認定制度","生涯学習"],"publishedAt":"2026-08-16T10:15:00+09:00"},{"issueDate":"2026-08-16","issueLabel":"第2号","id":"editorial-002","articleType":"EDITORIAL","title":"成人の16％——生涯学習は予算配分の問題である","subtitle":"編集部はこう見る","lead":"ILOが2026年5月5日に公表した旗艦報告書は、世界の15〜64歳のうち体系的な訓練を受けた人は16％にとどまるとした。この数字を、意欲の不足として読むことはできない。","category":"論説","tags":["論説","ILO","社会教育費","予算"],"publishedAt":"2026-08-16T10:30:00+09:00"},{"issueDate":"2026-08-16","issueLabel":"第2号","id":"feature-002","articleType":"FEATURE","title":"高齢者の学び直しを、世界はどう見ているか——ユネスコ5か国調査と日本","subtitle":"今週の特集","lead":"ユネスコ生涯学習研究所の調査報告書が、高齢者向けリスキリング・アップスキリング事業を5か国で比較した。担い手の顔ぶれは国によってまるで違う。","category":"特集","tags":["特集","ユネスコ","シニアの学び","国際比較"],"publishedAt":"2026-08-16T10:45:00+09:00"},{"issueDate":"2026-08-16","issueLabel":"第2号","id":"stats-002","articleType":"NEWS","title":"公民館は減り、図書館・博物館は過去最多","subtitle":"令和6年度社会教育統計の確定値","lead":"文部科学省が令和8年3月27日に公表した令和6年度社会教育統計の確定値では、施設種別で明暗が分かれた。公民館は施設数も指導系職員も減少し、図書館・博物館は過去最多となった。","category":"公民館・社会教育","tags":["統計","社会教育調査","公民館","図書館","博物館"],"publishedAt":"2026-08-16T07:30:00+09:00"},{"issueDate":"2026-08-16","issueLabel":"第2号","id":"policy-002","articleType":"NEWS","title":"中教審特別部会、8月時点でも取りまとめ未公表","subtitle":null,"lead":"「社会教育の在り方に関する特別部会」について、本紙が確認した範囲では、8月中旬の時点でも最終的な取りまとめは公表されていない。","category":"政策・行政","tags":["政策","中央教育審議会","社会教育"],"publishedAt":"2026-08-16T08:00:00+09:00"},{"issueDate":"2026-08-16","issueLabel":"第2号","id":"recurrent-003","articleType":"NEWS","title":"立教セカンドステージ大学、ユネスコ報告書の事例に","subtitle":null,"lead":"ユネスコ生涯学習研究所の高齢者リスキリング調査で、日本の事例として取り上げられたのは立教大学の「立教セカンドステージ大学」だった。2008年開設、50歳以上が対象の課程である。","category":"リカレント・大学","tags":["リカレント教育","大学","シニアの学び","ユネスコ"],"publishedAt":"2026-08-16T08:30:00+09:00"},{"issueDate":"2026-08-16","issueLabel":"第2号","id":"recurrent-004","articleType":"MARKET","title":"OECD「スキル・ファースト労働市場」が問うもの","subtitle":null,"lead":"OECDが2026年6月18日に公表した報告書は、学歴や資格ではなく実際の技能を軸に採用・人材管理・能力開発を組み替えることを主張する。学び直しの成果を誰がどう認めるのかが論点になる。","category":"リカレント・大学","tags":["OECD","リスキリング","マイクロクレデンシャル","採用"],"publishedAt":"2026-08-16T08:45:00+09:00"},{"issueDate":"2026-08-16","issueLabel":"第2号","id":"world-002","articleType":"WORLD","title":"ILO、体系的な訓練を受けた成人は世界で16％","subtitle":null,"lead":"国際労働機関（ILO）が2026年5月5日、旗艦報告書の2026年版を生涯学習をテーマに公表した。訓練機会は正規雇用に強く偏っている。","category":"海外・国際機関","tags":["海外","ILO","成人学習","統計"],"publishedAt":"2026-08-16T11:00:00+09:00"},{"issueDate":"2026-08-16","issueLabel":"第2号","id":"library-002","articleType":"WORLD","title":"米国、図書館助成を140万ドル増額　解体迫られたIMLSは存続","subtitle":null,"lead":"2026会計年度の歳出法が2026年2月3日に成立し、LSTA関連予算は前年から140万ドル増の2億1,250万ドルとなった。一方2027年度の予算教書は成人教育をゼロ要求としている。","category":"図書館","tags":["海外","米国","図書館","財源","成人教育"],"publishedAt":"2026-08-16T09:45:00+09:00"},{"issueDate":"2026-08-16","issueLabel":"第2号","id":"culture-002","articleType":"CULTURE","title":"宮城県美術館、3年ぶりに再開　「見える収蔵庫」を新設","subtitle":null,"lead":"2026年6月20日にリニューアルオープン。約3年の休館中に「見える収蔵庫」「キッズスタジオ」が新設された。開館記念展は8月23日まで。","category":"博物館・文化","tags":["博物館","美術館","リニューアル","収蔵"],"publishedAt":"2026-08-16T10:00:00+09:00"}];
 
   function issueUrl(a) {
     return 'issues/' + a.issueDate + '.html?goto=' + encodeURIComponent(a.id);

diff --git a/index.html b/index.html
@@ -97,7 +97,7 @@
       <span class="latest-badge">最新号</span>
       <div class="latest-no">第2号</div>
       <div class="latest-date">2026年8月16日（日）発行</div>
-      <div class="latest-top">ユネスコ、高齢者の学び直しを5か国調査／公民館は減り、図書館・博物館は過去最多／編集長コラム「『もう歳だから』という言葉について」</div>
+      <div class="latest-top">ユネスコ、高齢者の学び直しを5か国調査／公民館は減り、図書館・博物館は過去最多／編集長コラム「学びを『記録』から『力』へ――デジタルバッジが拓く、新しい生涯学習のかたち」</div>
       <span class="latest-cta">最新号を読む →</span>
     </a>
   </div>
